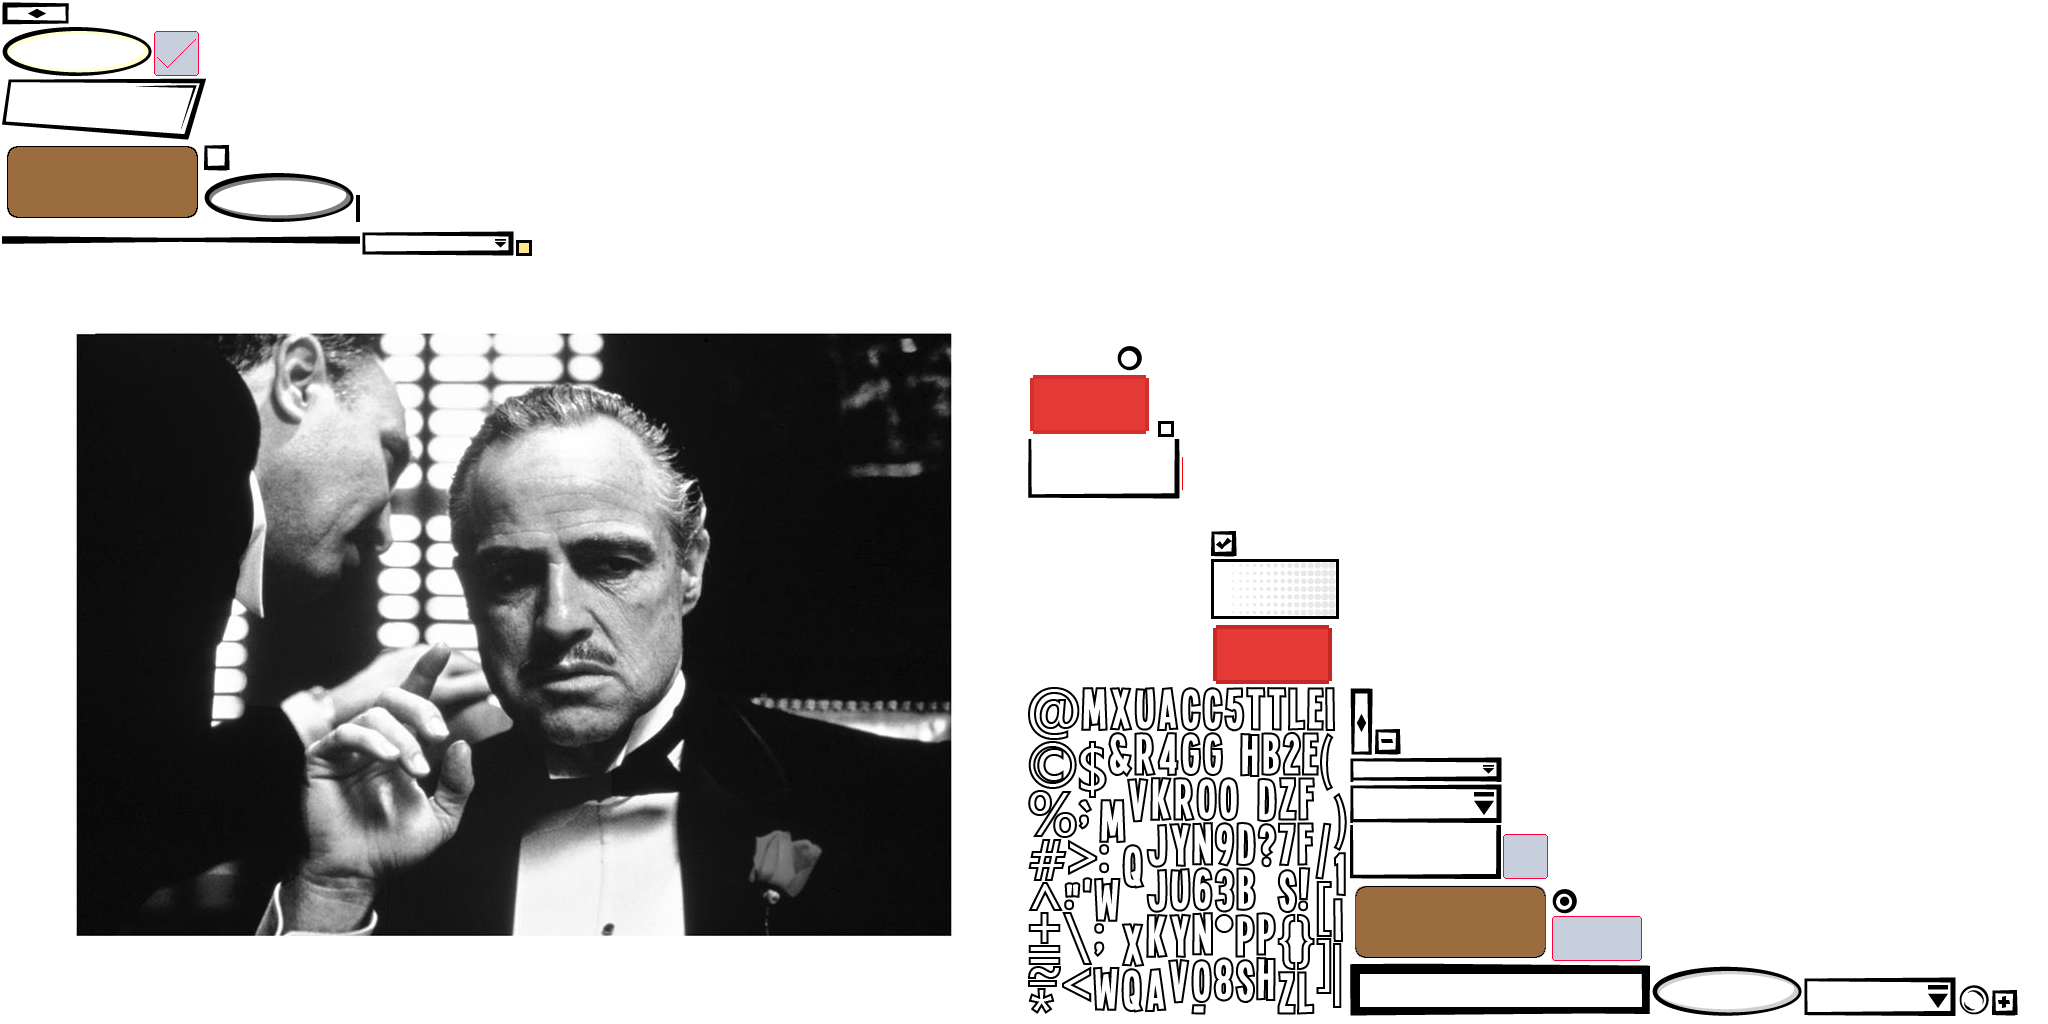
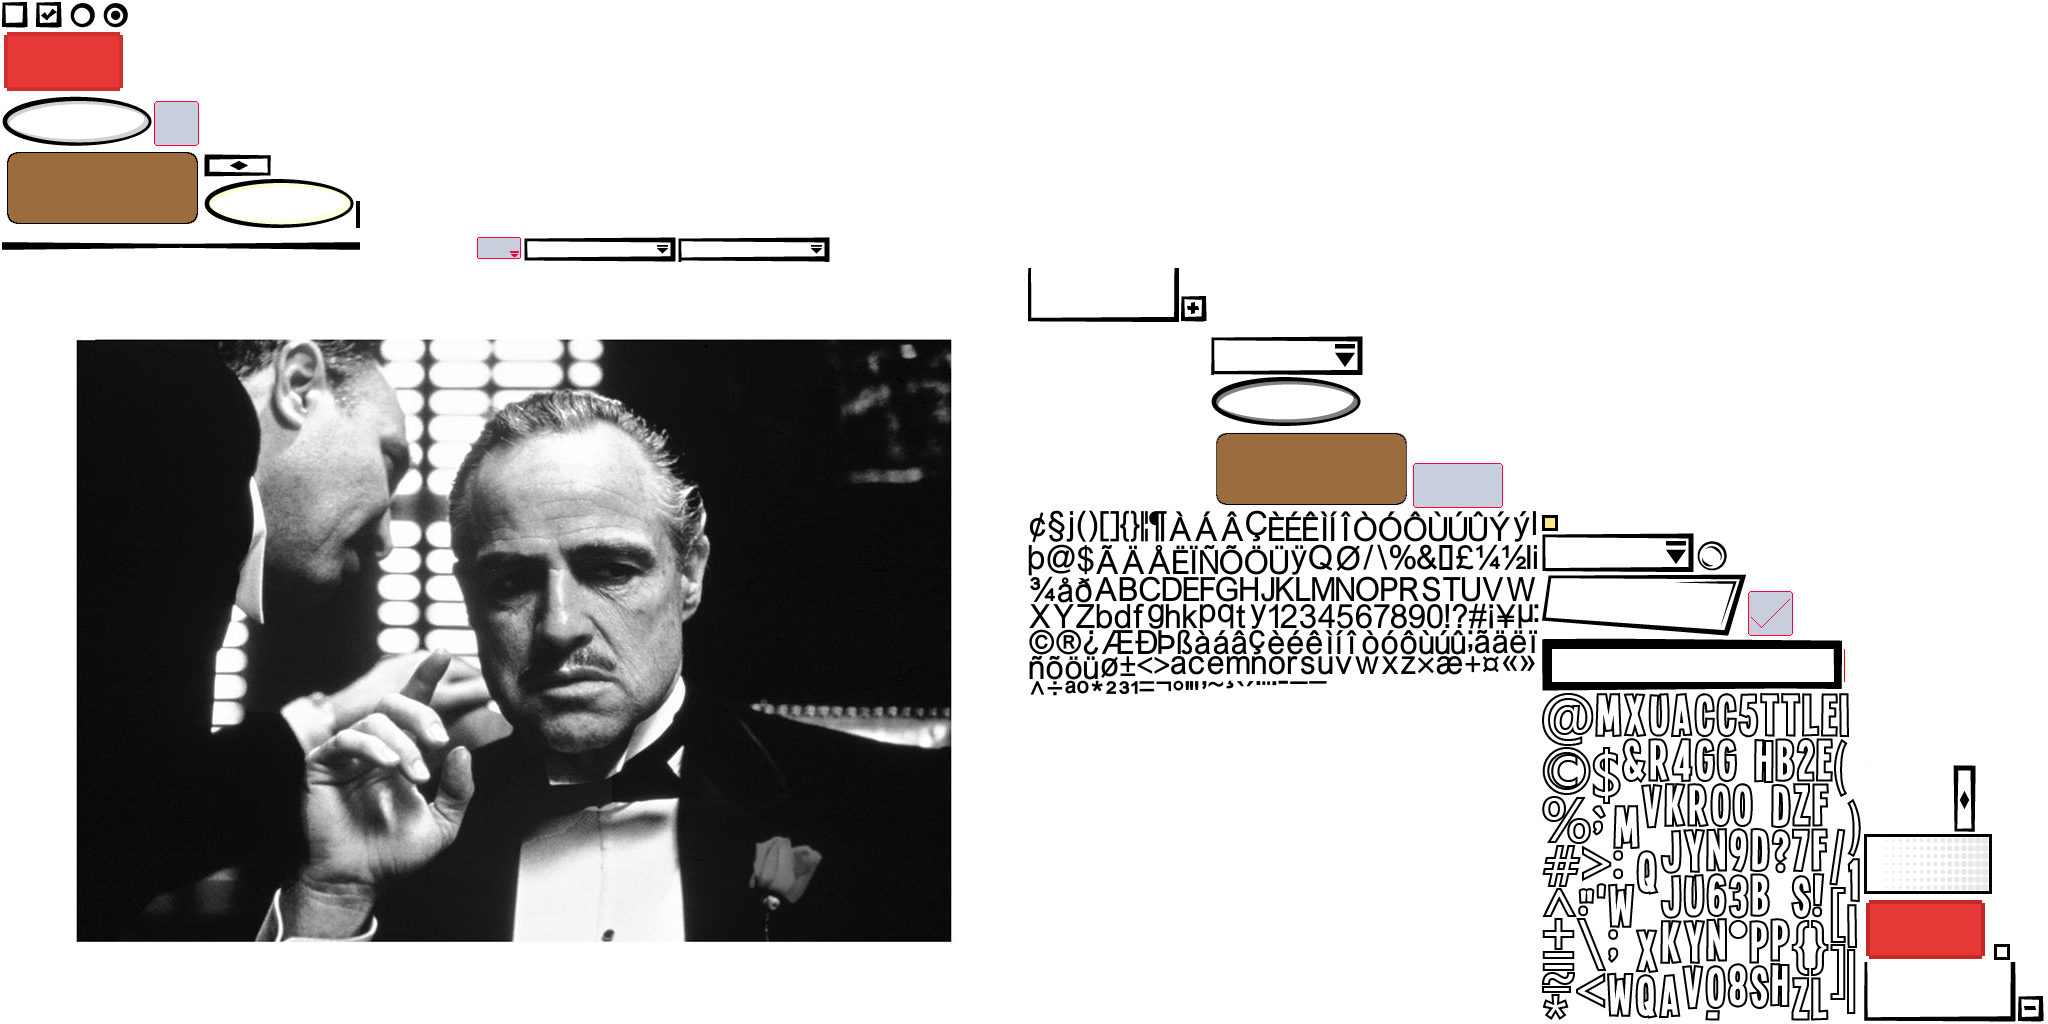
Added other UIs Modified buttons, transition at start and layout

diff --git a/core/src/main/kotlin/com/badlogic/palermojustice/view/CreateGameScreen.kt b/core/src/main/kotlin/com/badlogic/palermojustice/view/CreateGameScreen.kt
@@ -35,40 +35,44 @@ class CreateGameScreen : Screen {
         stage.addActor(mainTable)
 
         // Title
-        val titleLabel = Label("Create Game", skin, "title")
+        val titleLabel = Label("CREATE GAME", skin, "title")
         titleLabel.setFontScale(3f)
         mainTable.add(titleLabel).left().padBottom(30f).row()
 
         // Game name field
-        val gameNameLabel = Label("Game name", skin)
-        gameNameLabel.setFontScale(5f)
+        val gameNameLabel = Label("GAME NAME", skin, "sub-title")
+        gameNameLabel.setFontScale(2f)
         mainTable.add(gameNameLabel).left().padBottom(10f).row()
 
         gameNameField = TextField("", skin, "custom")
-        mainTable.add(gameNameField).fillX().size(540f, 150f).padBottom(30f).row()
+        gameNameField.style.font.data.setScale(1.5f)
+        gameNameField.style.background.leftWidth = 20f
+        mainTable.add(gameNameField).fillX().height(100f).padBottom(30f).row()
 
         // Select players number
-        val playerCountLabel = Label("Choose number of players", skin)
-        playerCountLabel.setFontScale(1.2f)
+        val playerCountLabel = Label("CHOOSE NUMBER OF PLAYERS", skin, "sub-title")
+        playerCountLabel.setFontScale(2f)
         mainTable.add(playerCountLabel).left().padBottom(10f).row()
 
-        playerCountSelectBox = SelectBox<String>(skin)
+        playerCountSelectBox = SelectBox<String>(skin, "custom")
         playerCountSelectBox.setItems("3", "4", "5", "6", "7", "8", "9", "10", "11", "12")
         playerCountSelectBox.selected = "5"
         mainTable.add(playerCountSelectBox).left().width(100f).height(50f).padBottom(30f).row()
 
         // Player name field
-        val playerNameLabel = Label("My player name", skin)
-        playerNameLabel.setFontScale(1.2f)
+        val playerNameLabel = Label("MY PLAYER NAME", skin, "sub-title")
+        playerNameLabel.setFontScale(2f)
         mainTable.add(playerNameLabel).left().padBottom(10f).row()
 
-        playerNameField = TextField("", skin)
-        mainTable.add(playerNameField).fillX().height(50f).padBottom(50f).row()
+        playerNameField = TextField("", skin, "custom")
+        playerNameField.style.font.data.setScale(1.5f)
+        playerNameField.style.background.leftWidth = 20f
+        mainTable.add(playerNameField).fillX().height(100f).padBottom(50f).row()
 
         // Lower buttons
         val buttonsTable = Table()
 
-        val backButton = TextButton("Back", skin)
+        val backButton = TextButton("BACK", skin)
         backButton.pad(10f)
         backButton.addListener(object : ChangeListener() {
             override fun changed(event: ChangeEvent, actor: Actor) {
@@ -76,7 +80,7 @@ class CreateGameScreen : Screen {
             }
         })
 
-        val createButton = TextButton("Create", skin)
+        val createButton = TextButton("CREATE", skin)
         createButton.pad(10f)
         createButton.addListener(object : ChangeListener() {
             override fun changed(event: ChangeEvent, actor: Actor) {
@@ -90,8 +94,8 @@ class CreateGameScreen : Screen {
             }
         })
 
-        buttonsTable.add(backButton).width(150f).padRight(20f)
-        buttonsTable.add(createButton).width(150f)
+        buttonsTable.add(backButton).width(450f).height(150f).padRight(0f).row()
+        buttonsTable.add(createButton).width(450f).height(150f).row()
 
         mainTable.add(buttonsTable).fillX()
     }

diff --git a/core/src/main/kotlin/com/badlogic/palermojustice/view/JoinGameScreen.kt b/core/src/main/kotlin/com/badlogic/palermojustice/view/JoinGameScreen.kt
@@ -35,27 +35,28 @@ class JoinGameScreen : Screen {
 
         // title
         val titleLabel = Label("JOIN GAME", skin, "title")
+        titleLabel.setFontScale(3f)
         titleLabel.setAlignment(Align.center)
         mainTable.add(titleLabel).expandX().center().padBottom(50f).row()
 
         // Name field table
         val nameTable = Table()
-        val nameLabel = Label("NAME", skin)
+        val nameLabel = Label("NAME", skin, "sub-title")
         nameLabel.setFontScale(1.2f)
         nameTable.add(nameLabel).width(100f).padRight(10f)
 
-        nameField = TextField("", skin)
+        nameField = TextField("", skin, "custom")
         nameTable.add(nameField).fillX().height(50f)
 
         mainTable.add(nameTable).fillX().padBottom(30f).row()
 
         // Code field table
         val codeTable = Table()
-        val codeLabel = Label("CODE", skin)
+        val codeLabel = Label("CODE", skin, "sub-title")
         codeLabel.setFontScale(1.2f)
         codeTable.add(codeLabel).width(100f).padRight(10f)
 
-        codeField = TextField("", skin)
+        codeField = TextField("", skin, "custom")
         codeTable.add(codeField).fillX().height(50f)
 
         mainTable.add(codeTable).fillX().padBottom(50f).row()
@@ -84,8 +85,8 @@ class JoinGameScreen : Screen {
             }
         })
 
-        buttonsTable.add(backButton).width(150f).padRight(20f)
-        buttonsTable.add(joinButton).width(150f)
+        buttonsTable.add(backButton).size(450f, 150f).row()
+        buttonsTable.add(joinButton).size(450f, 150f).row()
 
         mainTable.add(buttonsTable).fillX()
     }

diff --git a/core/src/main/kotlin/com/badlogic/palermojustice/view/RolesScreen.kt b/core/src/main/kotlin/com/badlogic/palermojustice/view/RolesScreen.kt
@@ -54,7 +54,7 @@ class RolesScreen : Screen {
 
         // add roles to the roles table
         addRole(rolesTable, "Mafioso", "A member of the mafia. Works with other mafiosi to eliminate citizens each night. Wins when mafia outnumbers citizens.", "godfather.jpg")
-        addRole(rolesTable, "Paesano", "A regular citizen trying to survive. Votes during the day to eliminate suspected mafiosi. Wins when all mafiosi are eliminated.", "citizen.jpg")
+        addRole(rolesTable, "Paesano", "A regular player with no special abilities (from the italian slang it means \"Villager\n" + "or citizen of a country city\")", "citizen.jpg")
         addRole(rolesTable, "Ispettore", "A citizen with the ability to investigate one player each night to determine if they are a mafioso. Wins with the citizens.", "detective.jpg")
         addRole(rolesTable, "Sgarrista", "A citizen with the ability to protect one player each night from being eliminated. Cannot protect the same player in consecutive nights. Wins with the citizens.", "nnnn.jpg")
         addRole(rolesTable, "Il Prete", "A citizen with the ability to protect one player each night from being eliminated. Cannot protect the same player in consecutive nights. Wins with the citizens.", "doctor.jpg")

diff --git a/core/src/main/kotlin/com/badlogic/palermojustice/view/SettingScreen.kt b/core/src/main/kotlin/com/badlogic/palermojustice/view/SettingScreen.kt
@@ -48,7 +48,8 @@ class SettingsScreen : Screen {
         stage.addActor(table)
 
         // Create UI elements
-        val titleLabel = Label("SETTINGS", skin)
+        val titleLabel = Label("SETTINGS", skin, "title")
+        titleLabel.setFontScale(2f)
         var backButton = TextButton("BACK", skin)
 
         languageSelectBox = SelectBox(skin)
@@ -81,7 +82,7 @@ class SettingsScreen : Screen {
         table.add(titleLabel).padBottom(50f).row()
         //table.add(Label("LANGUAGE", skin)).left().row()
         //table.add(languageSelectBox).padBottom(20f).fillX().row()
-        table.add(darkModeCheckBox).padBottom(20f).left().row()
+        table.add(darkModeCheckBox).padBottom(200f).left().row()
         table.add(backButton).size(450f, 150f).padBottom(100f).row()
     }
 

diff --git a/core/src/main/kotlin/com/badlogic/palermojustice/view/LobbyScreen.kt b/core/src/main/kotlin/com/badlogic/palermojustice/view/LobbyScreen.kt
@@ -44,7 +44,6 @@ class LobbyScreen : Screen {
             }
         })
 
-        headerTable.add(backButton).padRight(20f).align(Align.left)
         headerTable.add(titleLabel).expandX().align(Align.center)
 
         val codeLabel = Label("Code", skin, "title")
@@ -81,6 +80,7 @@ class LobbyScreen : Screen {
         mainTable.add(playerNameField).fillX().height(50f).padBottom(50f).row()
         mainTable.add(playerNameField2).fillX().height(50f).padBottom(50f).row()
         mainTable.add(buttonsTable).fillX()
+        mainTable.add(backButton).width(450f).height(150f).padRight(0f)
 
         // style adjustment
         backButton.pad(10f)
